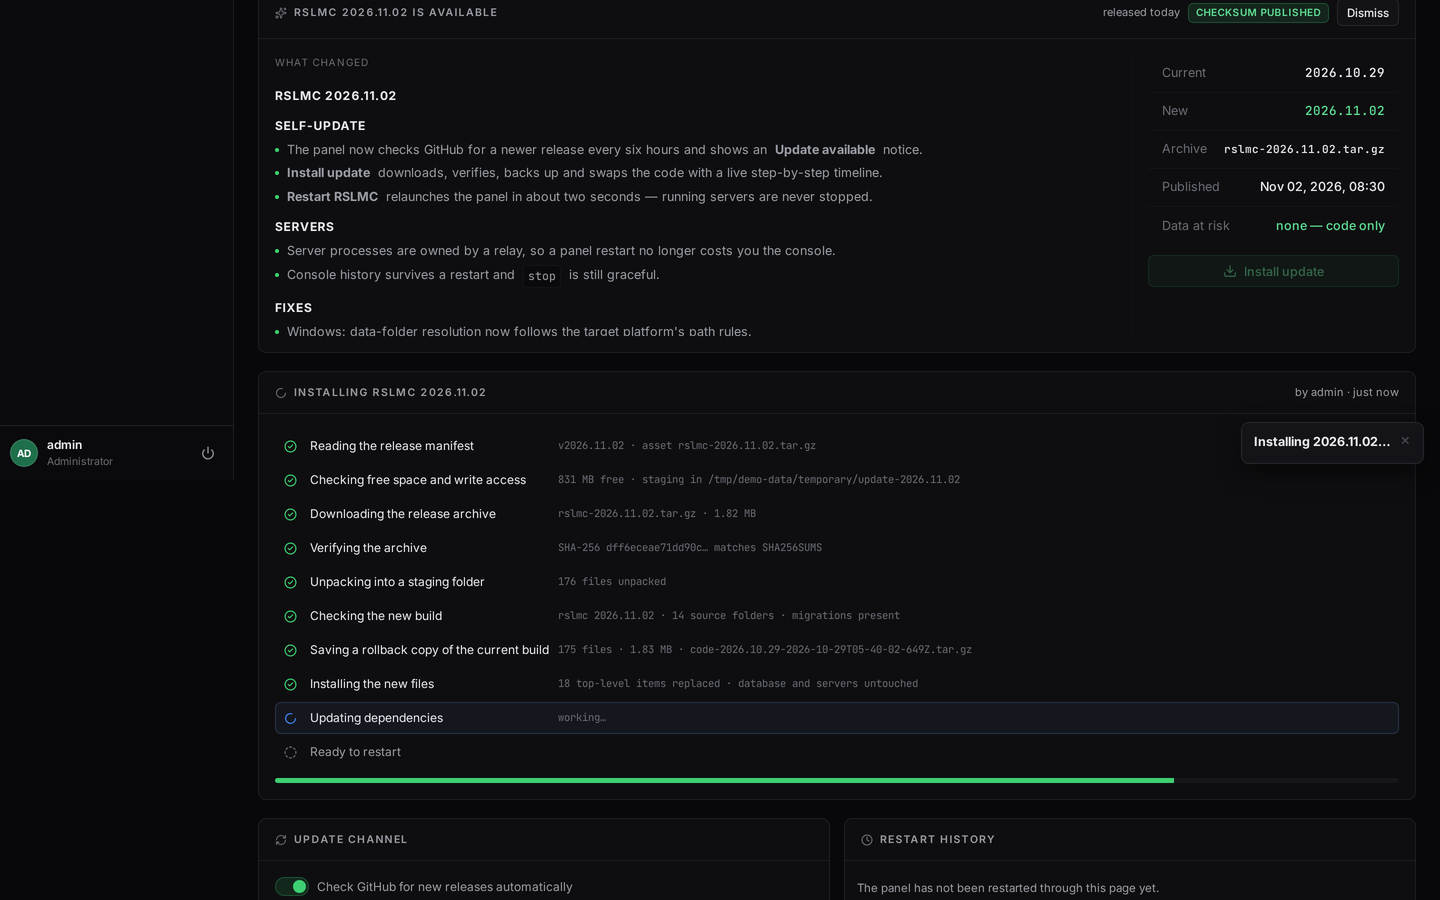
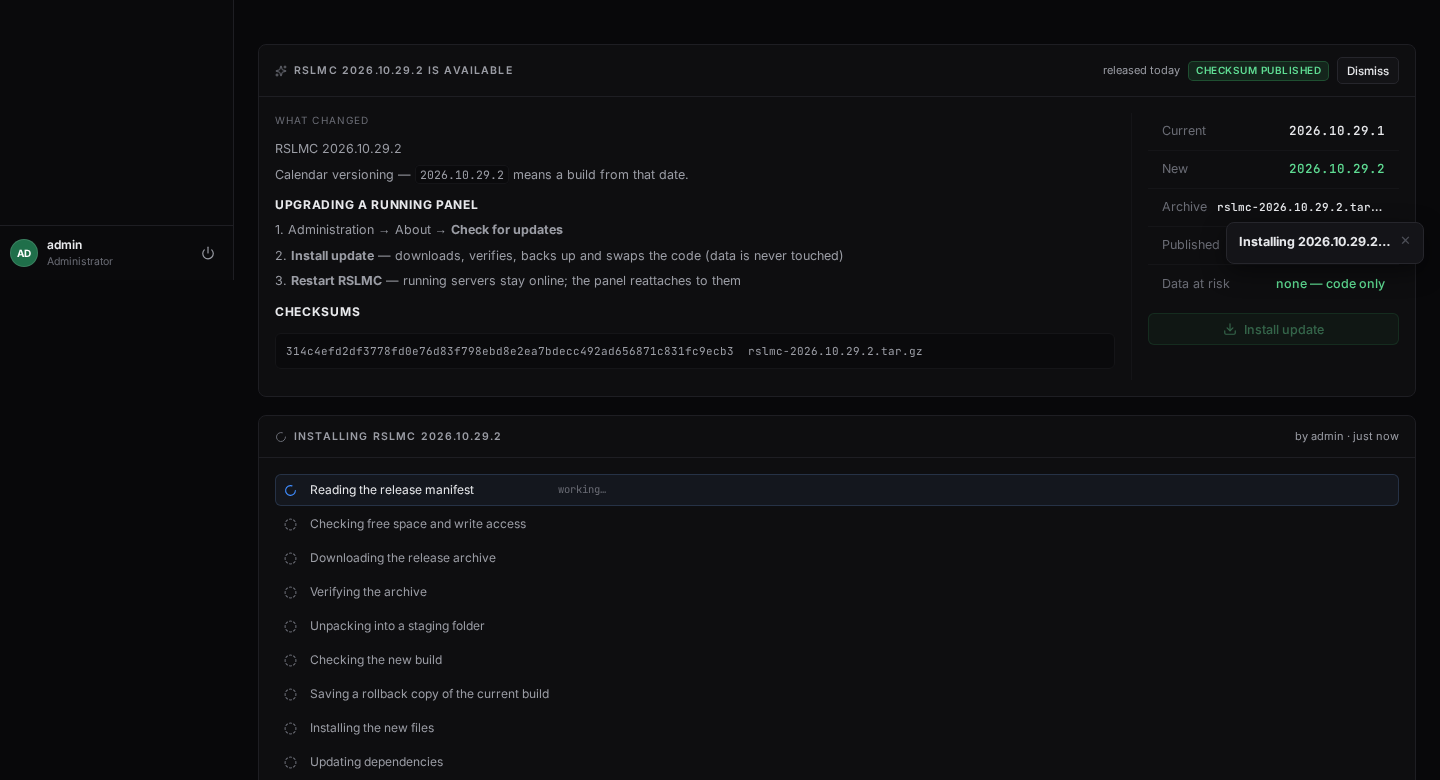
docs: update screenshots from the real GitHub release flow
The About/update screenshots were taken against a local fake feed. They now show a panel at
2026.10.29.1 installing 2026.10.29.2 from the public GitHub API: real asset, real checksum, real
restart (1.2 s, 1 server kept). README says so explicitly and documents the new test runner.

diff --git a/README.md b/README.md
@@ -377,6 +377,11 @@ read from the process, the database or GitHub at request time.
 A failure stops the job, keeps the old code in place (or restores the rollback archive) and says which
 step failed and why. The panel never half-installs and never invents a success.
 
+The flow above is exercised against the **real** GitHub releases, not a mirror: a copy of the panel at
+`2026.10.28` checked `github.com/ROOTSUNNYLAB1/RSLMC/releases` (through the public API, no token),
+downloaded `rslmc-2026.10.29.tar.gz`, matched the published `SHA256SUMS`, swapped the code, restarted in
+1.4 s with **2 servers kept running**, and then went on to install `2026.10.29.2` the same way.
+
 **Restart RSLMC** asks for confirmation, then hands every running server to its relay, closes the HTTP
 and WebSocket listeners, and a small detached relauncher starts the new process, waits for the port and
 records how long the boot took. The page you are looking at reconnects on its own; the restart history
@@ -895,7 +900,7 @@ Two providers, one shared code path, no browser SDK — the panel keeps `script-
 ## Testing
 
 ```bash
-bun test                              # 152 unit + integration tests (17 files)
+bun run test                          # every suite, one process per file (19 files, 163 tests)
 bun run tests/security/pentest.ts     # 114 adversarial checks against a throwaway instance
 bun run typecheck                     # tsc --noEmit, strict
 ```
